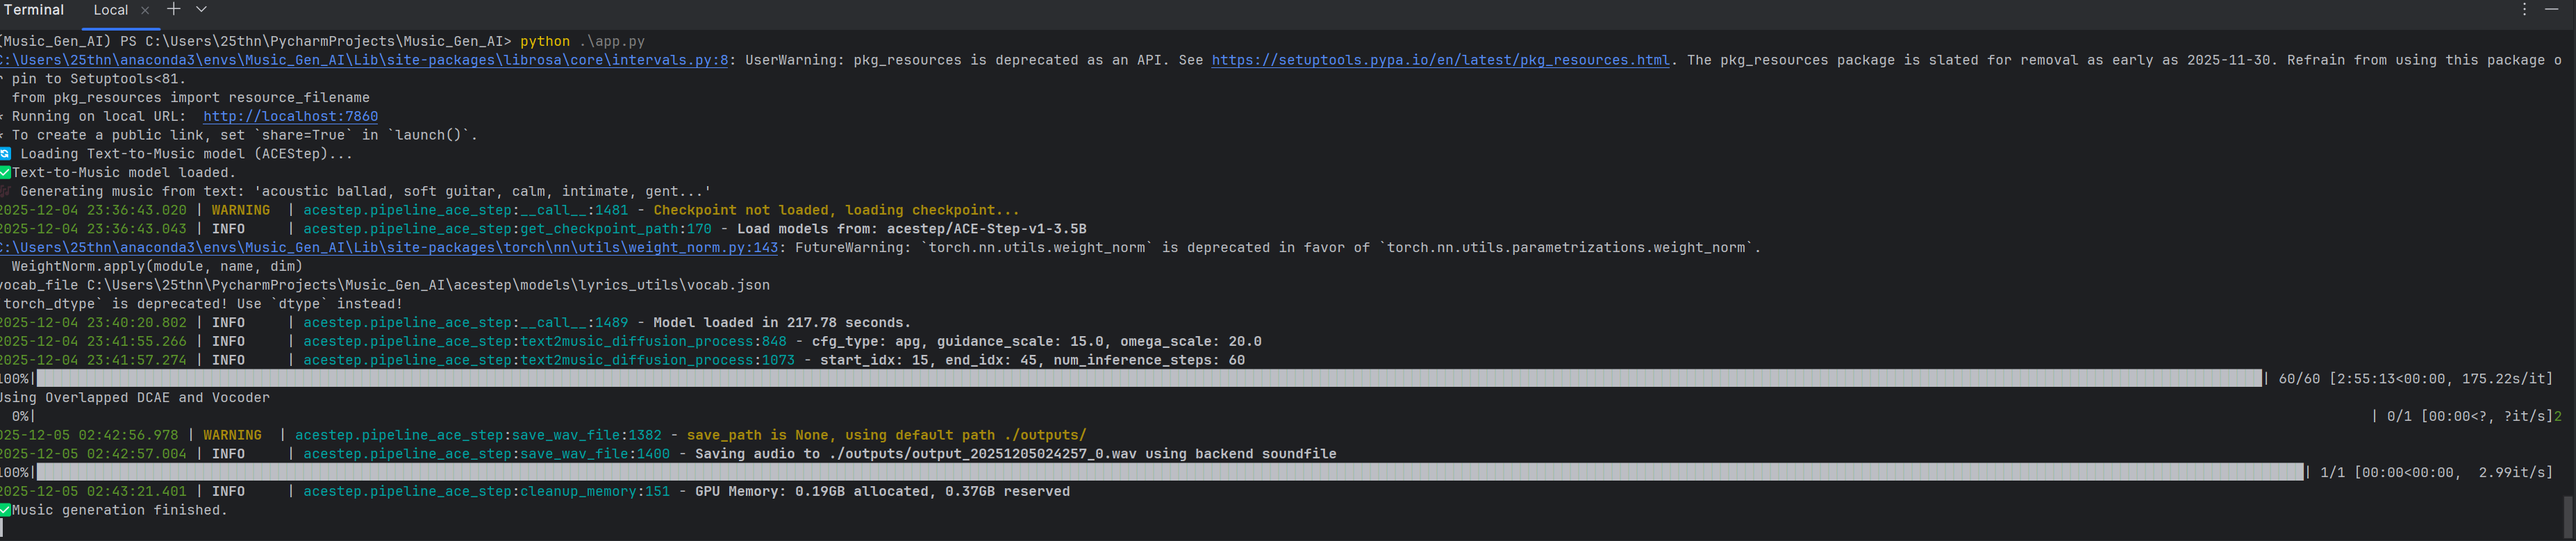
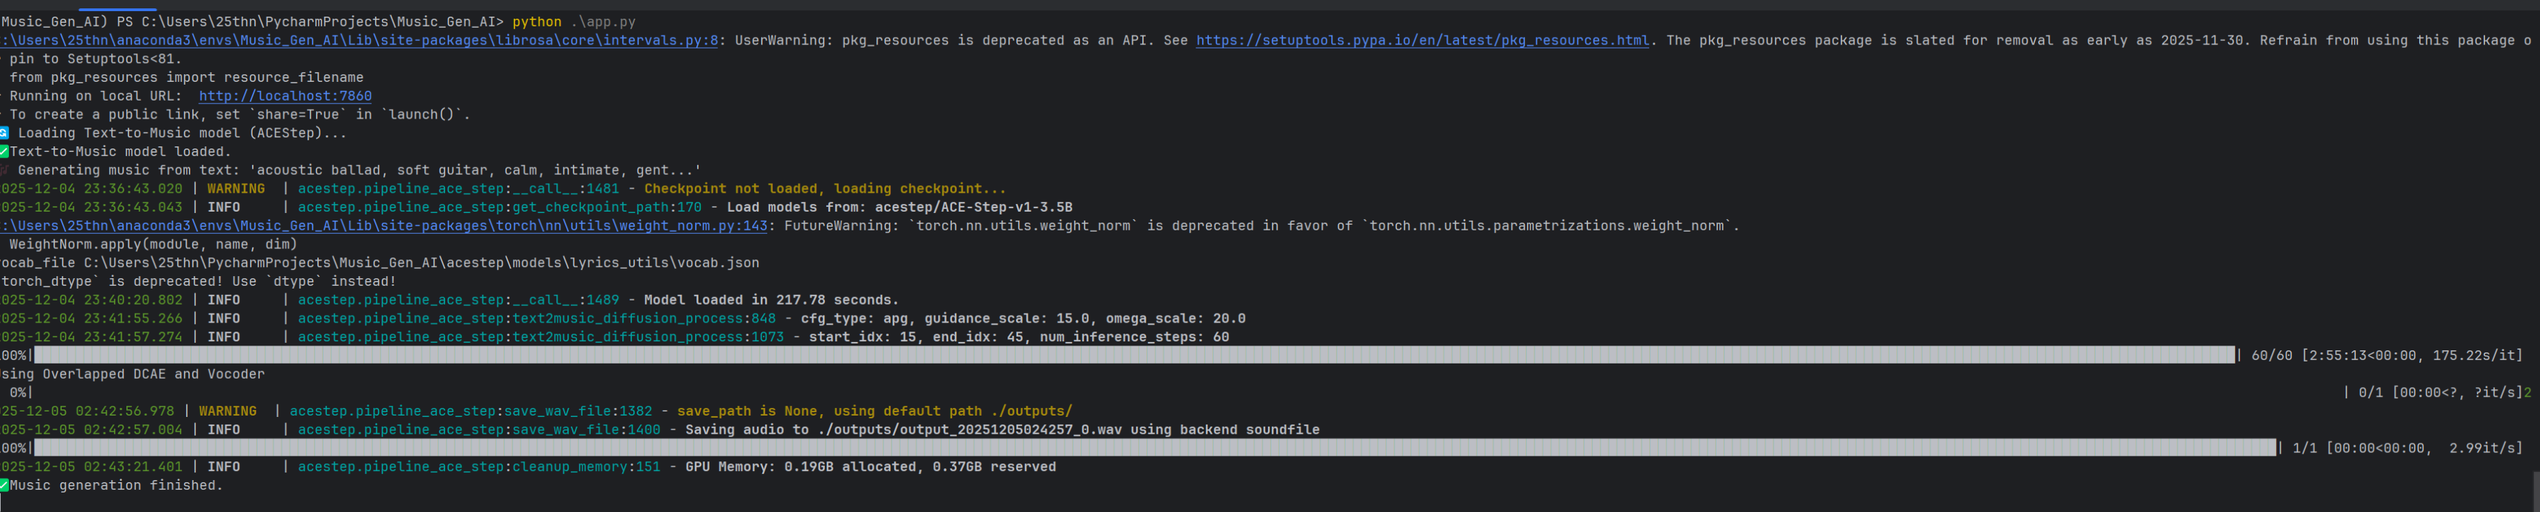
update

Changed region(s): [[0.0, 0.0, 0.9973, 0.9661], [0.9973, 0.9038, 1.0, 1.0], [0.9038, 0.748, 0.9973, 0.7791]]

diff --git a/README.md b/README.md
@@ -30,8 +30,7 @@ Python 3.12 및 CUDA를 지원하는 GPU 환경이 필요합니다 (RTX 4080 이
 
 ```bash
 # 1. 리포지토리 복제
-git clone https://github.com/your-username/text-to-music-project.git
-cd text-to-music-project](https://github.com/TRANDUYDAT21101233/Text_to_Music_Gen.git)
+https://github.com/TRANDUYDAT21101233/Text_to_Music_Gen.git
 
 # 2. 주요 의존성 라이브러리 설치
 pip install -r requirements.txt
@@ -41,39 +40,34 @@ pip install --upgrade diffusers[torch]
 
 git clone https://huggingface.co/thang101020/musicai
 
-# 4. how to run?
+# 4. 실행
 
 python app.py
+```
 
-click in the link on terminal like "Running on local URL:  http://localhost:7860"
+## 실험 결과 (Experimental Results)
 
-write Tags / Prompt -> Lyrics -> edit Audio Duration (seconds) -> click Generate Music
-
-## 🎨 실험 결과 (Experimental Results)
-
-아래는 실제로 본 모델을 사용해 생성한 예시들입니다. (44.1kHz 스테레오, 10~60 step 내 생성)
 
 ### 1. 생성 예시 1 – 감성 발라드 (Emotional Ballad)
-
 **Prompt + Lyrics:**
-![Prompt + Lyrics Interface](Result_Image_Demo/pormt_lyric.png)
 
-**결과 (약 35초 길이, 60 steps):**
+<img src="Result_Image_Demo/pormt_lyric.png" width="500">
+
+**결과:**
 
 <audio controls>
-  <source src="Result_Image_Demo/output_20251205024257_0.wav" type="audio/wav">
-  Your browser does not support the audio element.
+<source src="Result_Image_Demo/output_20251205024257_0.wav" type="audio/wav">
 </audio>
 
-![result](Result_Image_Demo/result.png)
+<img src="Result_Image_Demo/result.png" width="600">
 
 ### 3. 추론 속도 비교 (동일 prompt, 30초 길이, RTX 4090 vs GTX 1065 6GB)
 
-| GPU              | VRAM   | Steps | 생성 시간    | 비고                  |
-|------------------|--------|-------|--------------|------------------------|
-| RTX 4090         | 24 GB  | 60    | **35초**    | 매우 빠름                  |
-| GTX 1065         | 4 GB   | 60    | ~3시간       | 느림                      |
-
+| GPU              | VRAM   | Steps | 생성 시간  | 비고                  |
+|------------------|--------|-------|----------|------------------------|
+| RTX 4090         | 24 GB  | 60    | 35초    | 매우 빠름                  |
+| GTX 1065         | 4 GB   | 60    | ~3시간   | 느림                      |
+## Test with RTX 4090 
 ![RTX 4090 Benchmark](Result_Image_Demo/test_RTX_4090_24GB.png)
-![GTX 1065 Benchmark](Result_Image_Demo/test_GTX_1065.png)
-
+## Test with GTX 1650 
+![GTX 1065 Benchmark](Result_Image_Demo/test_gtx_1065.png)
